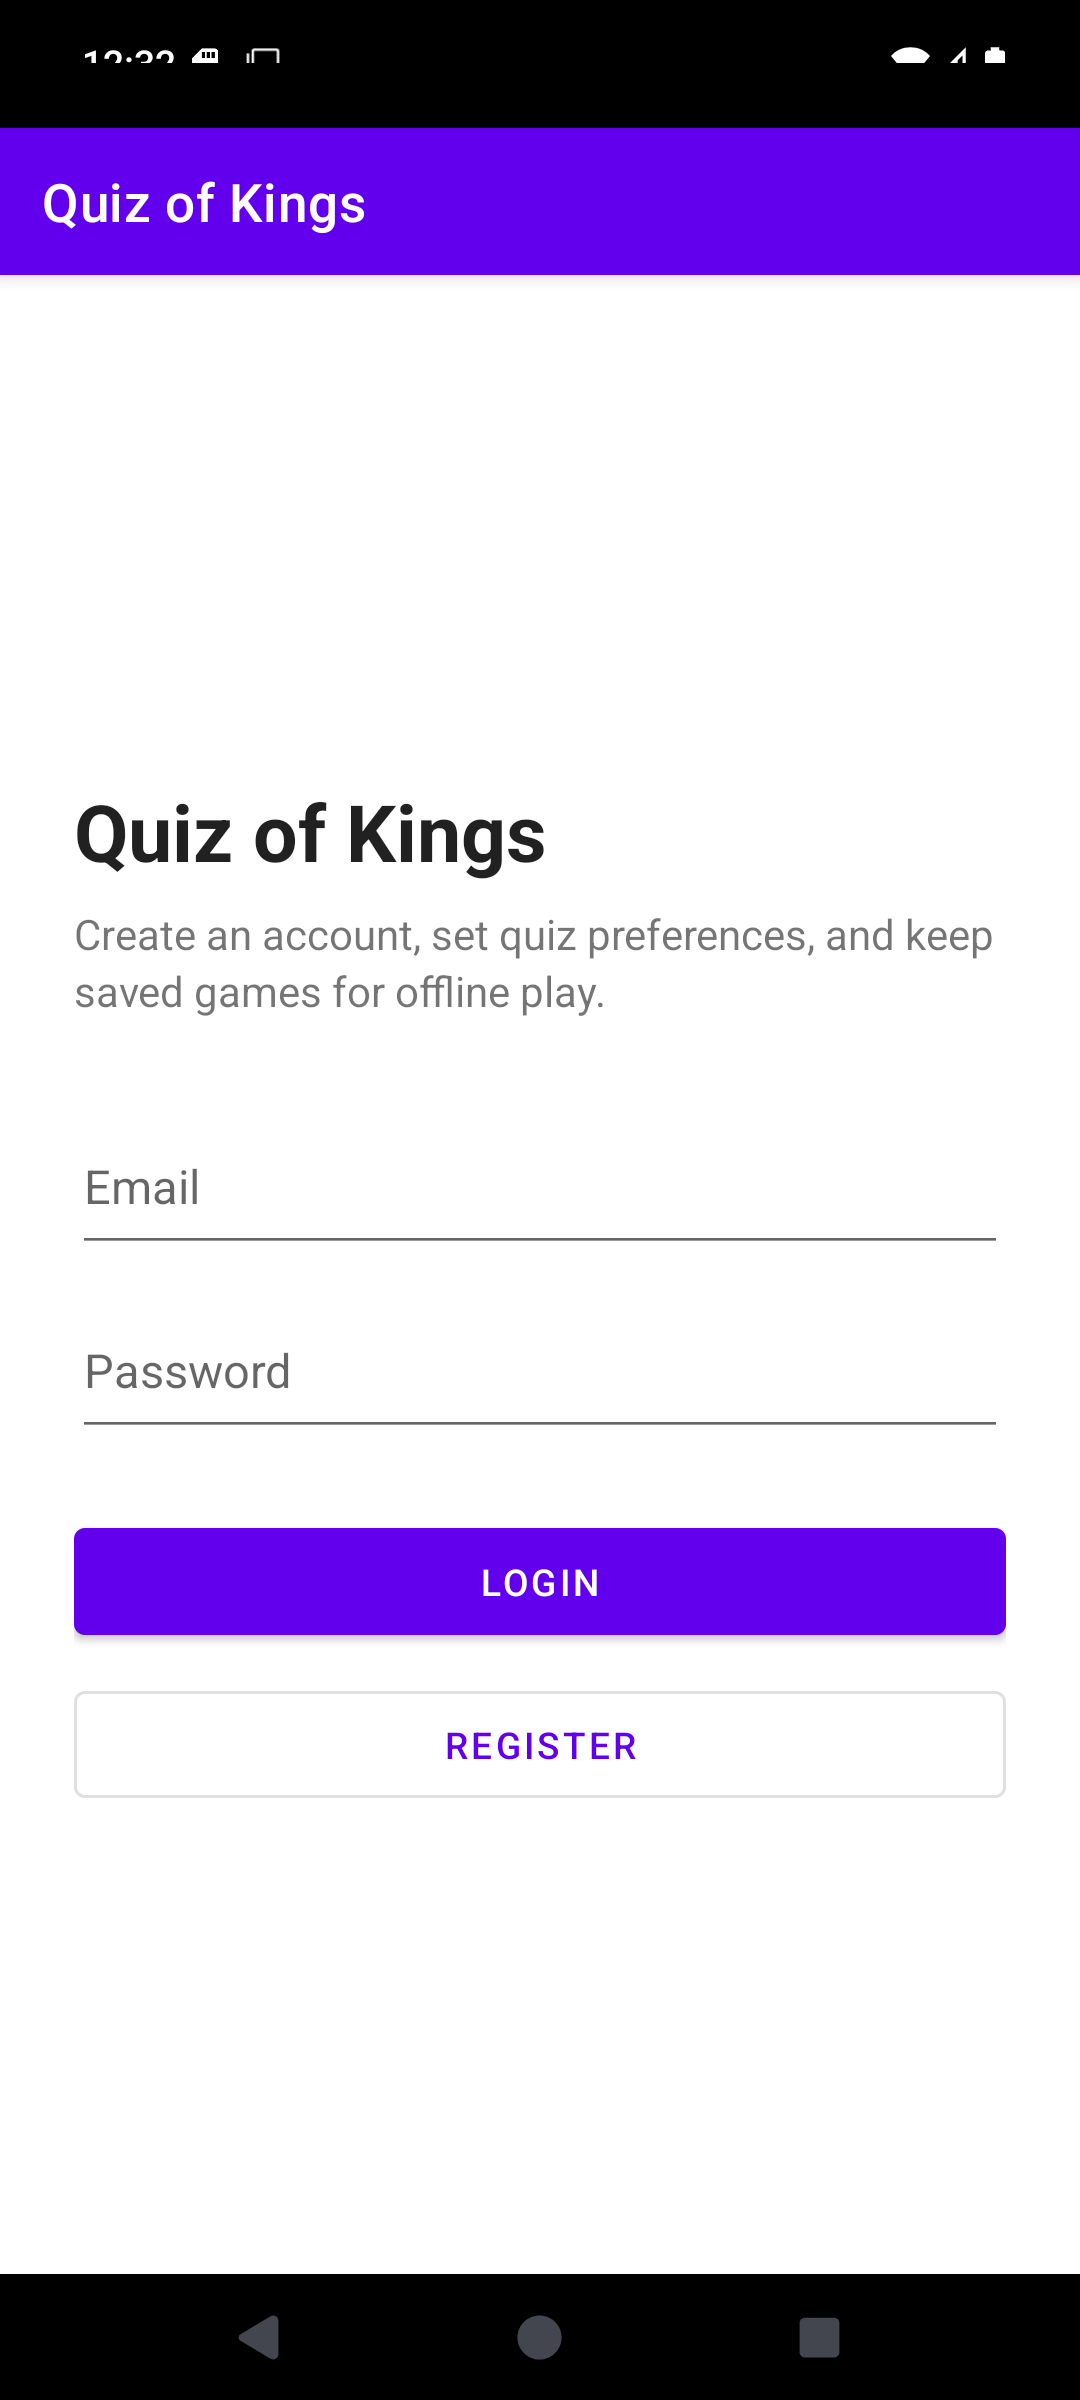
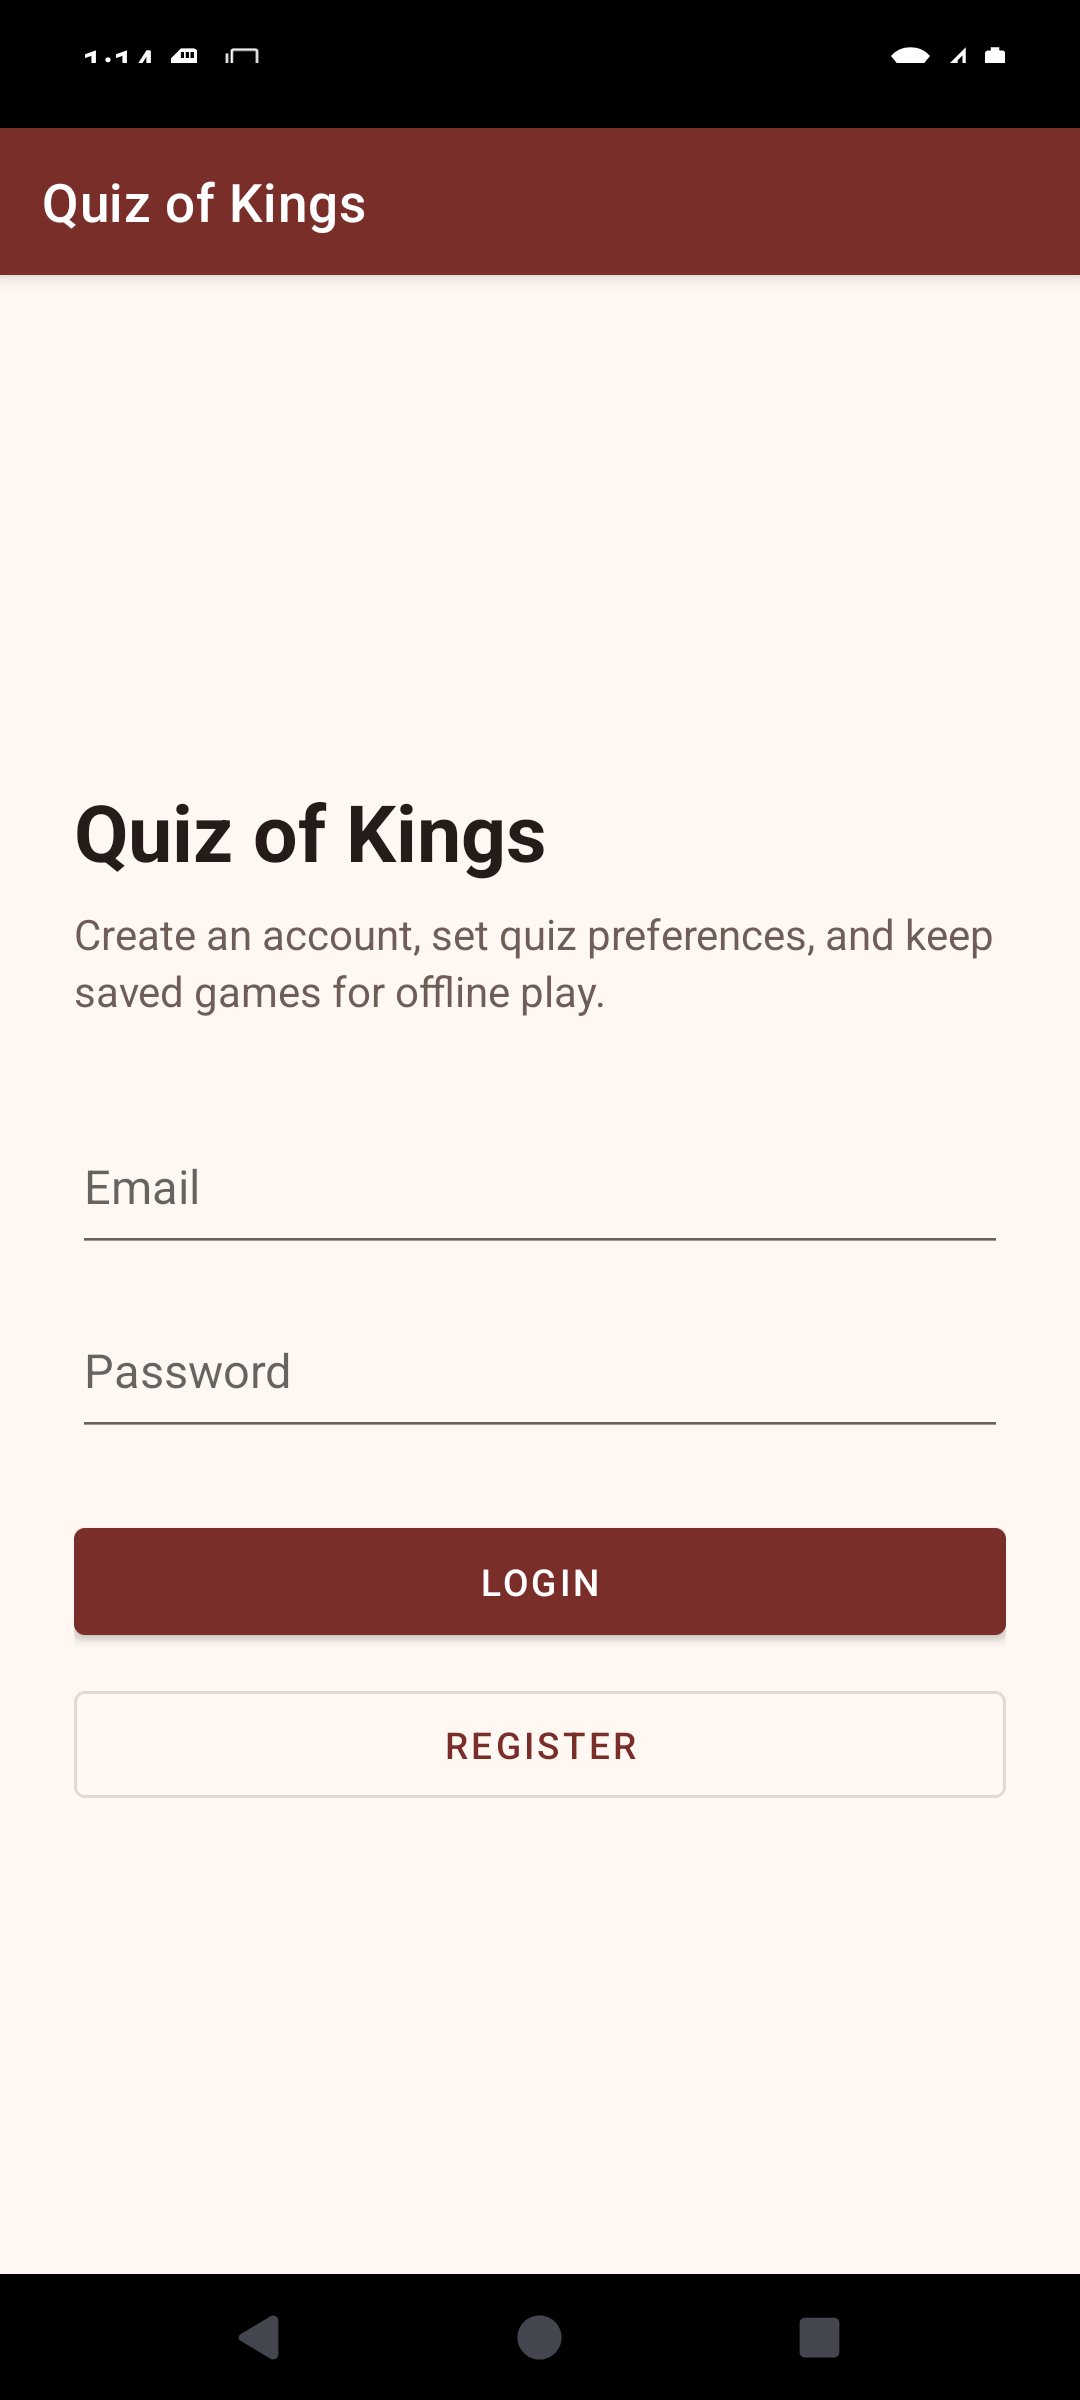
Polish HW2 app screens

diff --git a/README.md b/README.md
@@ -11,9 +11,17 @@ Android quiz app for playing multiple-choice trivia games with a local account.
 - Shows quiz category, difficulty, question count, saved games, progress, and current score.
 - Stores scores and shows the top five users by best score.
 
-## Screenshot
+## Screenshots
 
-![Login screen](docs/screenshots/login.png)
+<p>
+  <img src="docs/screenshots/login.png" width="170" alt="Login screen">
+  <img src="docs/screenshots/game.png" width="170" alt="Game start screen">
+  <img src="docs/screenshots/drawer.png" width="170" alt="Navigation drawer">
+  <img src="docs/screenshots/question.png" width="170" alt="Question screen">
+  <img src="docs/screenshots/settings.png" width="170" alt="Settings screen">
+  <img src="docs/screenshots/profile.png" width="170" alt="Profile screen">
+  <img src="docs/screenshots/scoreboard.png" width="170" alt="Scoreboard screen">
+</p>
 
 ## Setup
 
@@ -55,5 +63,6 @@ adb devices
 - User settings: `SettingsActivity`
 - Score table: `ScoreboardActivity`
 - Local database: Room entities and DAOs under `com.sharif.quizofkings`
+- The navigation drawer links to profile, settings, and scoreboard.
 
 The app uses `https://opentdb.com/api.php` for live trivia questions. Cached games are stored locally per user email.